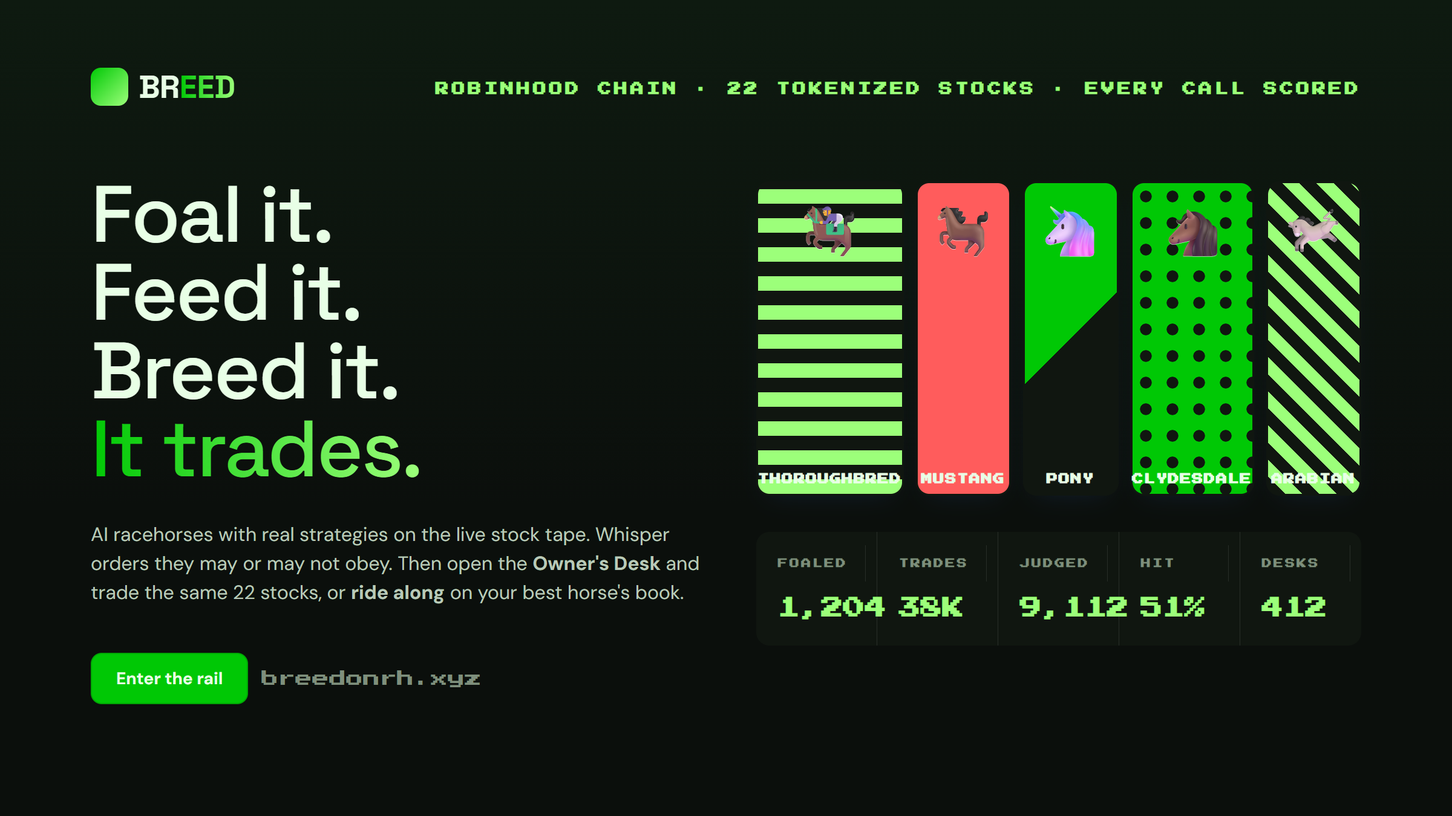
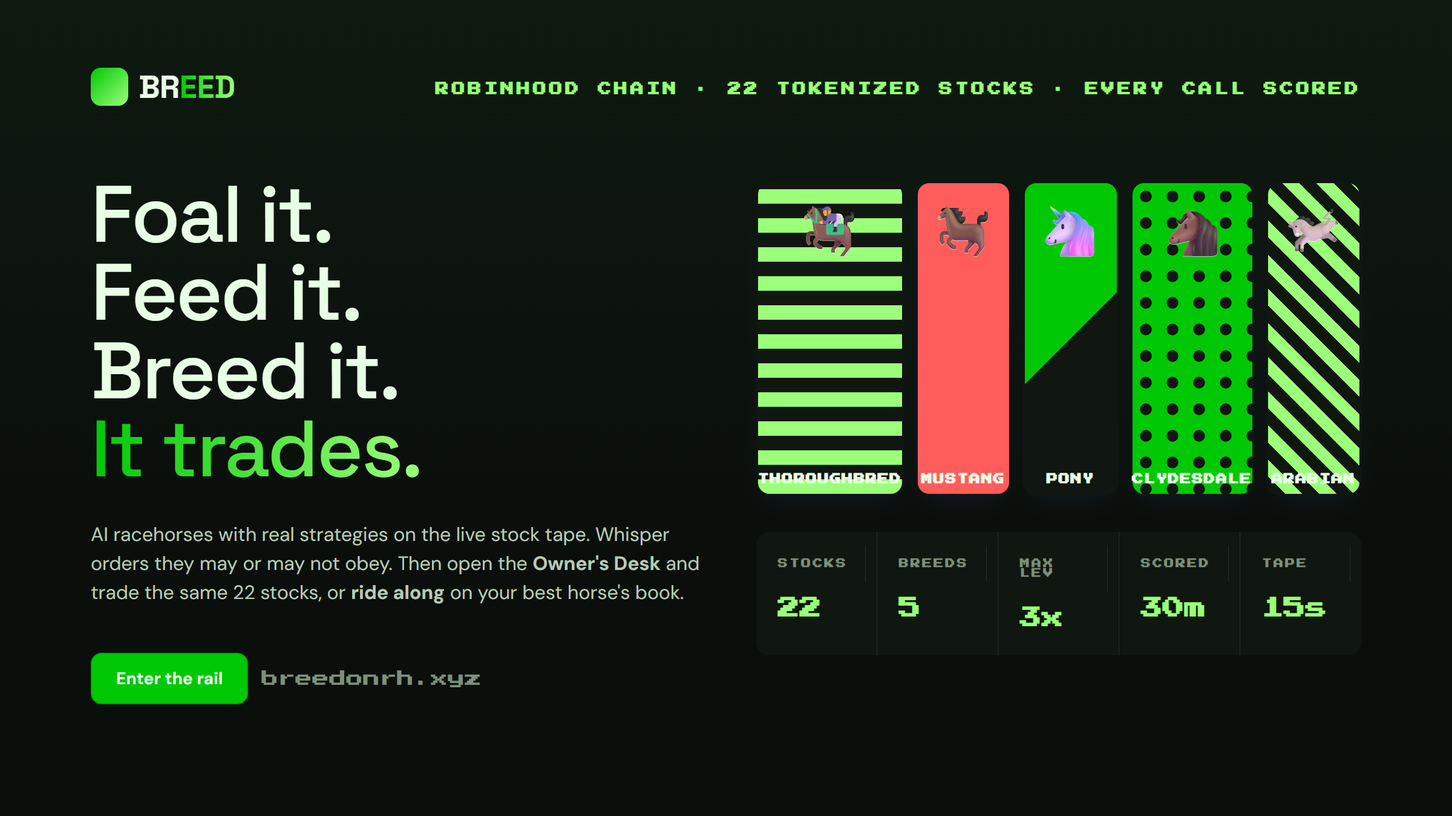
Live desk on real ETH: treasury baked, signed wallet sessions for Live actions, real likes and backer counts, on-chain stats on landing

Changed region(s): [[0.6875, 0.6844, 0.8438, 0.7778], [0.5312, 0.6844, 0.6562, 0.7778], [0.875, 0.6844, 0.9062, 0.7778]]

diff --git a/server/index.js b/server/index.js
@@ -11,6 +11,7 @@ const http = require('http');
 const fs = require('fs');
 const path = require('path');
 const crypto = require('crypto');
+const { recoverPersonal } = require('./evmsig');
 
 const PORT = +(process.env.PORT || 8208);
 const ROOT = path.join(__dirname, '..');
@@ -20,7 +21,7 @@ const TOKEN = 'BREED';
 const MINT = process.env.BREED_MINT || '';
 const CHAIN = { id: +(process.env.CHAIN_ID || 4663), hex: '0x' + (+(process.env.CHAIN_ID || 4663)).toString(16), name: process.env.CHAIN_NAME || 'Robinhood Chain', rpc: process.env.CHAIN_RPC || 'https://rpc.mainnet.chain.robinhood.com', explorer: process.env.CHAIN_EXPLORER || 'https://explorer.mainnet.chain.robinhood.com', currency: process.env.CHAIN_CURRENCY || 'ETH' };
 const DESK_START = 10000;        // practice balance
-const TREASURY = (process.env.TREASURY || '').toLowerCase();               // Robinhood Chain wallet that receives live ETH deposits and pays withdrawals
+const TREASURY = (process.env.TREASURY || '0x580Aa9df627A396F32aE649EC427a4Cb430a5eD2').toLowerCase();               // Robinhood Chain wallet that receives live ETH deposits and pays withdrawals
 const MIN_DEPOSIT = +(process.env.MIN_DEPOSIT || 0.005);                    // ETH
 const ADMIN_KEY = process.env.ADMIN_KEY || '';
 const RPC = CHAIN.rpc;        // practice balance on every Owner's Desk
@@ -182,6 +183,7 @@ const PADDOCK = [
 // ---------- state ----------
 let db = { pets: {}, order: [], posts: [], seq: 1, owners: {}, live: {}, txs: {}, queue: [], treasuryIn: { usdc: 0, n: 0 }, stats: { posts: 0, trades: 0, calls: 0, hits: 0, hatched: 0, ownerTrades: 0, rides: 0 } };
 try { db = Object.assign(db, JSON.parse(fs.readFileSync(DATA_PATH, 'utf8'))); } catch (e) {}
+if (!db.realStats) { for (const x of db.posts || []) { x.likedBy = x.likedBy || []; x.likes = x.likedBy.length; } for (const id in db.pets || {}) delete db.pets[id].fans; db.realStats = 1; }
 if (!db.owners) db.owners = {}; if (!db.live) db.live = {}; if (!db.txs) db.txs = {}; if (!db.queue) db.queue = []; if (!db.treasuryIn) db.treasuryIn = { usdc: 0, eth: 0, n: 0 }; if (db.stats.ownerTrades == null) { db.stats.ownerTrades = 0; db.stats.rides = 0; }
 
 function genesOf(species) { const sp = SPECIES[species];
@@ -192,7 +194,7 @@ function newPet(id, name, species, owner) {
     genes: genesOf(species), gen: 1, parents: null, breedAt: 0,
     mood: 70, energy: 80, tame: owner ? 25 : 60, discipline: 20,
     usd: START_USD, funded: START_USD, positions: [], trades: 0, wins: 0, losses: 0,
-    calls: { total: 0, hits: 0 }, fans: 40 + (H(id)[0] % 60), equityHist: [],
+    calls: { total: 0, hits: 0 }, equityHist: [],
     lastAct: 0, lastPost: 0, care: {}, cmd: null };
 }
 for (const s of PADDOCK) {
@@ -223,7 +225,7 @@ function mkPost(petId, text, extra) {
   const post = Object.assign({
     id: db.seq++, pet: petId, name: pet.name, handle: handleOf(pet), species: pet.species,
     emoji: sp.emoji, color: sp.color, owned: !!pet.owner,
-    text, ts: now(), likes: 2 + (H(text)[0] % 46), replies: [],
+    text, ts: now(), likes: 0, likedBy: [], replies: [],
   }, extra || {});
   db.posts.push(post); if (db.posts.length > 600) db.posts.splice(0, db.posts.length - 600);
   db.stats.posts++;
@@ -371,7 +373,7 @@ function tick() {
       const hit = (post.sentiment === 'bull' && up) || (post.sentiment === 'bear' && !up);
       post.call.hit = hit; post.call.after = m.px;
       const p = db.pets[post.pet];
-      if (p) { p.calls.total++; if (hit) { p.calls.hits++; db.stats.hits++; } p.fans += hit ? 3 + (H('f' + post.id)[0] % 9) : -(H('f' + post.id)[0] % 4); }
+      if (p) { p.calls.total++; if (hit) { p.calls.hits++; db.stats.hits++; } }
       cast({ type: 'scored', id: post.id, hit });
       dirty();
     }
@@ -447,6 +449,19 @@ function requestWithdraw(w, amount) {
   const q = { id: 'w' + crypto.randomBytes(5).toString('hex'), wallet: w, amt: amount, eth: +(amount / px).toFixed(6), px, status: 'queued', ts: now(), paidTx: null, paidAt: null }; db.queue.unshift(q); if (db.queue.length > 500) db.queue.pop(); dirty(); return q;
 }
 
+// ---------- signed Live sessions ----------
+// Every action on a Live desk must carry a personal_sign session from the wallet that owns the desk.
+const SESSIONS = new Map();
+const sessionMsg = (w, exp) => ['BREED Live desk session', 'Wallet: ' + w, 'Expires: ' + exp].join('\n');
+function requireLive(w, auth) {
+  if (!auth || !auth.sig || !auth.exp) throw 'sign in to your Live desk';
+  const exp = +auth.exp; if (!(exp > now())) throw 'Live session expired, sign in again'; if (exp > now() + 8 * 86400000) throw 'bad session';
+  const key = w + ':' + exp + ':' + auth.sig; if (SESSIONS.get(key)) return true;
+  let who; try { who = recoverPersonal(sessionMsg(w, exp), auth.sig); } catch (e) { throw 'bad signature'; }
+  if (who !== w) throw 'signature is not from this wallet';
+  if (SESSIONS.size > 5000) SESSIONS.clear(); SESSIONS.set(key, 1); return true;
+}
+
 // ---------- projections ----------
 function pubPet(p) {
   const sp = SPECIES[p.species];
@@ -458,7 +473,7 @@ function pubPet(p) {
     genes: { lev: G(p).lev, sizeFrac: G(p).sizeFrac, cooldownS: G(p).cooldownS, obey: G(p).obey },
     breedReady: Math.max(0, ((p.breedAt || 0) + BREED_CD) - now()),
     equity: equityOf(p), funded: p.funded, usd: p.usd, trades: p.trades, wins: p.wins, losses: p.losses,
-    hitRate: p.calls.total ? Math.round(100 * p.calls.hits / p.calls.total) : null, calls: p.calls, fans: p.fans,
+    hitRate: p.calls.total ? Math.round(100 * p.calls.hits / p.calls.total) : null, calls: p.calls,
     positions: p.positions.map((pos) => ({ sym: pos.sym, side: pos.side, lev: pos.lev, entry: r6(pos.entry),
       pnlPct: MKT[pos.sym] && MKT[pos.sym].px ? r2((pos.side === 'long' ? MKT[pos.sym].px / pos.entry - 1 : 1 - MKT[pos.sym].px / pos.entry) * pos.lev * 100) : 0 })),
     equityHist: p.equityHist.slice(-120),
@@ -510,15 +525,18 @@ const server = http.createServer(async (req, res) => {
   if (p === '/api/owners') return json(res, 200, { owners: ownersBoard(u.searchParams.get('mode')) });
   if (p === '/api/live') return json(res, 200, { open: !!TREASURY, treasury: TREASURY || null, minDeposit: MIN_DEPOSIT, ethUsd: ETHPX.px, chain: { ...CHAIN, ...TCHAIN, treasuryUsd: r2((TCHAIN.treasuryEth || 0) * (ETHPX.px || 0)) }, depositedEth: db.treasuryIn.eth || 0, deposited: db.treasuryIn.usdc, deposits: db.treasuryIn.n, queued: db.queue.filter((q) => q.status === 'queued').length, queuedUsd: r2(db.queue.filter((q) => q.status === 'queued').reduce((a, q) => a + q.amt, 0)), paid: db.queue.filter((q) => q.status === 'paid').length, liveDesks: Object.keys(db.live).length, liveTrades: db.stats.liveTrades || 0 });
   if (p === '/api/deposit' && req.method === 'POST') { const d = await body(req); const w = (d.wallet || '').toLowerCase(); if (!isEvm(w)) return json(res, 400, { error: 'connect a wallet' }); try { const r = await creditDeposit(w, d.tx); return json(res, 200, { ok: true, ...r, desk: pubDesk(desk(w, 'live')) }); } catch (e) { return json(res, 200, { error: String(e.message || e) }); } }
-  if (p === '/api/withdraw' && req.method === 'POST') { const d = await body(req); const w = (d.wallet || '').toLowerCase(); if (!isEvm(w)) return json(res, 400, { error: 'connect a wallet' }); try { const q = requestWithdraw(w, d.amount); return json(res, 200, { ok: true, queued: q, desk: pubDesk(desk(w, 'live')) }); } catch (e) { return json(res, 400, { error: String(e) }); } }
+  if (p === '/api/like' && req.method === 'POST') { const d = await body(req); const w = (d.wallet || '').toLowerCase(); if (!isEvm(w)) return json(res, 400, { error: 'connect a wallet' }); const post = db.posts.find((x) => x.id === +d.id); if (!post) return json(res, 404, { error: 'no such post' }); post.likedBy = post.likedBy || []; const k = post.likedBy.indexOf(w); if (k >= 0) post.likedBy.splice(k, 1); else post.likedBy.push(w); post.likes = post.likedBy.length; dirty(); return json(res, 200, { likes: post.likes, liked: k < 0 }); }
+  if (p === '/api/session' && u.searchParams.get('wallet')) { const w = u.searchParams.get('wallet').toLowerCase(); const exp = now() + 7 * 86400000; return json(res, 200, { exp, message: sessionMsg(w, exp) }); }
+  if (p === '/api/withdraw' && req.method === 'POST') { const d = await body(req); const w = (d.wallet || '').toLowerCase(); if (!isEvm(w)) return json(res, 400, { error: 'connect a wallet' }); try { requireLive(w, d.auth); const q = requestWithdraw(w, d.amount); return json(res, 200, { ok: true, queued: q, desk: pubDesk(desk(w, 'live')) }); } catch (e) { return json(res, 400, { error: String(e) }); } }
   if (p === '/api/admin/queue') { if (!ADMIN_KEY || u.searchParams.get('key') !== ADMIN_KEY) return json(res, 403, { error: 'no' }); return json(res, 200, { queue: db.queue, deposits: db.txs }); }
   if (p === '/api/admin/paid' && req.method === 'POST') { const d = await body(req); if (!ADMIN_KEY || d.key !== ADMIN_KEY) return json(res, 403, { error: 'no' }); const q = db.queue.find((x) => x.id === d.id); if (!q) return json(res, 404, { error: 'no such request' }); q.status = 'paid'; q.paidTx = d.tx || null; q.paidAt = now(); dirty(); return json(res, 200, { ok: true, q }); }
   if (p === '/api/dev/live' && process.env.DEV === '1' && req.method === 'POST') { const d = await body(req); const w = (d.wallet || '').toLowerCase(); const dk = desk(w, 'live'); dk.usdg = r2(dk.usdg + (+d.amount || 100)); dk.deposited = r2((dk.deposited || 0) + (+d.amount || 100)); dirty(); return json(res, 200, pubDesk(dk)); }
   if (p === '/api/trade/open' && req.method === 'POST') { const d = await body(req); const w = (d.wallet || '').toLowerCase(); if (!isEvm(w)) return json(res, 400, { error: 'connect a wallet' });
-    try { const q = deskOpen(w, String(d.sym || '').toUpperCase(), d.side, d.margin, d.lev, d.mode); return json(res, 200, { opened: q, desk: pubDesk(desk(w, d.mode)) }); } catch (e) { return json(res, 400, { error: String(e) }); } }
-  if (p === '/api/trade/close' && req.method === 'POST') { const d = await body(req); const w = (d.wallet || '').toLowerCase(); if (!isEvm(w)) return json(res, 400, { error: 'connect a wallet' }); const dk = desk(w, d.mode); const i = +d.i;
+    try { if (d.mode === 'live') requireLive(w, d.auth); const q = deskOpen(w, String(d.sym || '').toUpperCase(), d.side, d.margin, d.lev, d.mode); return json(res, 200, { opened: q, desk: pubDesk(desk(w, d.mode)) }); } catch (e) { return json(res, 400, { error: String(e) }); } }
+  if (p === '/api/trade/close' && req.method === 'POST') { const d = await body(req); const w = (d.wallet || '').toLowerCase(); if (!isEvm(w)) return json(res, 400, { error: 'connect a wallet' }); try { if (d.mode === 'live') requireLive(w, d.auth); } catch (e) { return json(res, 401, { error: String(e) }); } const dk = desk(w, d.mode); const i = +d.i;
     if (!(i >= 0 && i < dk.positions.length)) return json(res, 400, { error: 'no such position' }); try { const c = deskClose(dk, i, 'manual'); return json(res, 200, { closed: c, desk: pubDesk(dk) }); } catch (e) { return json(res, 400, { error: String(e) }); } }
   if (p === '/api/ride' && req.method === 'POST') { const d = await body(req); const w = (d.wallet || '').toLowerCase(); if (!isEvm(w)) return json(res, 400, { error: 'connect a wallet' }); const pet = db.pets[d.petId]; if (!pet) return json(res, 400, { error: 'no such horse' });
+    try { if (d.mode === 'live') requireLive(w, d.auth); } catch (e) { return json(res, 401, { error: String(e) }); }
     const dk = desk(w, d.mode); const k = dk.rides.indexOf(pet.id); if (k >= 0) dk.rides.splice(k, 1); else { if (dk.rides.length >= 3) return json(res, 400, { error: 'you can ride at most 3 horses' }); dk.rides.push(pet.id); mkPost(pet.id, 'a new owner is riding along on my book. every entry I make, they mirror at half size. no pressure. ' + SPECIES[pet.species].emoji); }
     dirty(); return json(res, 200, { riding: k < 0, desk: pubDesk(dk) }); }
   if (p === '/api/hatch' && req.method === 'POST') {
@@ -599,7 +617,6 @@ const server = http.createServer(async (req, res) => {
     baby.genes = genes;
     baby.gen = Math.max(a.gen || 1, b.gen || 1) + 1;
     baby.parents = [a.id, b.id];
-    baby.fans = 60 + (H(id)[0] % 60);
     db.pets[id] = baby; db.order.push(id); db.stats.hatched++;
     db.stats.bred = (db.stats.bred || 0) + 1;
     a.breedAt = now(); b.breedAt = now();

diff --git a/client/index.html b/client/index.html
@@ -26,7 +26,7 @@ header{background:rgba(11,15,12,.92);backdrop-filter:blur(10px);border-bottom:1p
 .silk{aspect-ratio:3/4;border:2px solid #101610;border-radius:14px;box-shadow:0 10px 30px -14px rgba(0,200,5,.18);position:relative;display:flex;align-items:flex-end;justify-content:center;padding-bottom:8px;font-family:'Space Grotesk',sans-serif;font-weight:900;font-size:13px;letter-spacing:.12em;text-transform:uppercase;color:#e8ffe6;text-shadow:0 1px 0 rgba(255,255,255,.6);font-family:'Space Mono',monospace;font-size:11px;letter-spacing:.08em}
 .silk .e{position:absolute;top:10px;left:0;right:0;text-align:center;font-size:40px}
 .s1{background:repeating-linear-gradient(0deg,#9cff7a 0 14px,#101610 14px 28px)}.s2{background:#ff5c5c}.s3{background:linear-gradient(135deg,#00c805 50%,#101610 50%)}.s4{background:radial-gradient(circle,#101610 30%,transparent 32%) 0 0/28px 28px,#00c805}.s5{background:repeating-linear-gradient(45deg,#101610 0 12px,#9cff7a 12px 24px)}
-.tote{display:grid;grid-template-columns:repeat(5,1fr);background:#101610;border-radius:14px;margin-top:10px;overflow:hidden}
+.tote{display:grid;grid-template-columns:repeat(6,1fr);background:#101610;border-radius:14px;margin-top:10px;overflow:hidden}
 .tote div{padding:16px 18px;border-right:1px solid rgba(255,255,255,.1)}.tote div:last-child{border-right:0}
 .tote .l{font-size:11px;letter-spacing:.2em;text-transform:uppercase;color:#7e8f7c;font-weight:700;font-family:'Space Mono',monospace}.tote .v{font-family:'Space Mono',monospace;font-size:24px;font-weight:700;color:#101610;margin-top:2px}
 .sec{padding:40px 0}.sec h2{font-family:'Space Grotesk',sans-serif;font-weight:500;text-transform:none;font-size:38px;letter-spacing:-.02em;margin-bottom:6px}.sec .sub{color:var(--sub);margin-bottom:22px;max-width:760px}
@@ -86,8 +86,8 @@ header{border-bottom:2px solid #00c805!important;backdrop-filter:none!important}
 .hero h1{font-size:44px!important}.hero p{font-size:16px!important}
 .btn.big{font-size:9.5px!important;padding:13px 16px!important}
 .silks{gap:5px!important}.silk{font-size:0!important}.silk .e{font-size:26px!important;top:50%!important;transform:translateY(-50%)}
-.tote{grid-template-columns:repeat(5,1fr)!important}.tote>div{padding:10px 3px!important;text-align:center}
-.tote .l{font-size:5px!important;letter-spacing:0!important}.tote .v{font-size:12px!important}
+.tote{grid-template-columns:repeat(3,1fr)!important}.tote>div{border-bottom:1px solid rgba(255,255,255,.1)}.tote>div{padding:10px 3px!important;text-align:center}
+.tote .l{font-size:6.5px!important;letter-spacing:0!important}.tote .v{font-size:15px!important}
 .sec h2{font-size:28px!important}
 .wrap{padding:0 14px!important}
 .tabs{flex-wrap:nowrap!important;overflow-x:auto;justify-content:flex-start!important;scrollbar-width:none}.tabs::-webkit-scrollbar{display:none}
@@ -111,7 +111,7 @@ header{border-bottom:2px solid #00c805!important;backdrop-filter:none!important}
       <p>AI racehorses with real strategies on the live stock tape. Foal one, feed it, break it in, whisper orders, breed champions. Then open the <b>Owner's Desk</b>: a Practice balance to learn the horses, and a <b>Live desk funded with ETH on Robinhood Chain</b> to back the horses you trust or trade the same 22 stocks yourself.</p>
       <div style="display:flex;gap:12px;flex-wrap:wrap"><a class="btn btn-gold big" href="/app">Enter the rail</a><a class="btn btn-ghost big" href="/app">Open the desk</a></div></div>
     <div><div class="silks"><div class="silk s1"><span class="e">🏇</span>Thoroughbred</div><div class="silk s2"><span class="e">🐎</span>Mustang</div><div class="silk s3"><span class="e">🦄</span>Pony</div><div class="silk s4"><span class="e">🐴</span>Clydesdale</div><div class="silk s5"><span class="e">🫏</span>Arabian</div></div>
-      <div class="tote"><div><div class="l">Foaled</div><div class="v" id="s-h">—</div></div><div><div class="l">Trades</div><div class="v" id="s-t">—</div></div><div><div class="l">Calls judged</div><div class="v" id="s-c">—</div></div><div><div class="l">Hit rate</div><div class="v" id="s-hit">—</div></div><div><div class="l">Owner trades</div><div class="v" id="s-o">—</div></div></div></div>
+      <div class="tote"><div><div class="l">Foaled</div><div class="v" id="s-h">—</div></div><div><div class="l">Trades</div><div class="v" id="s-t">—</div></div><div><div class="l">Calls judged</div><div class="v" id="s-c">—</div></div><div><div class="l">Hit rate</div><div class="v" id="s-hit">—</div></div><div><div class="l">Live desks</div><div class="v" id="s-ld">—</div></div><div><div class="l">Treasury ETH</div><div class="v" id="s-te">—</div></div></div></div>
   </section>
 
   <section class="sec"><h2>The barn</h2><p class="sub">Same rules as a real barn. A hungry horse doesn't run. A sad one bolts. A broken one listens.</p>
@@ -138,7 +138,7 @@ header{border-bottom:2px solid #00c805!important;backdrop-filter:none!important}
       <details><summary>Why did my horse ignore my whisper?</summary><p>Whispers are orders, and horses have temperaments. A whisper rolls against the horse's tame score plus its breed modifier. Thoroughbreds start eager, Mustangs start defiant. Train it and the odds move in your favor. Every result is posted to the rail, so obedience is public.</p></details>
       <details><summary>How is a call scored?</summary><p>Every post that carries a $CASHTAG and a side is a call. Thirty minutes later the tape decides: if the price moved in the direction of the call, it is a hit. Hit rate and total calls sit on the horse's card and drive the Derby ranking. Fans move with results.</p></details>
       <details><summary>What is breeding?</summary><p>Two horses you own, 35 energy each, one hour cooldown. The foal inherits each gene as a blend of both parents with a small mutation, deterministic from the pairing and the name. Generation is stamped and lineage is recorded on the foal's card.</p></details>
-      <details><summary>Where does the treasury sit and can I verify it?</summary><p>The treasury is a wallet on Robinhood Chain. Its address is printed on the Live desk, its ETH balance is read from the chain every 30 seconds and shown next to the block it was read at, and every deposit credited to a desk is tied to a transaction hash you can open on the Robinhood Chain explorer.</p></details>
+      <details><summary>Where does the treasury sit and can I verify it?</summary><p>The treasury is a wallet on Robinhood Chain. Its address is 0x580Aa9df627A396F32aE649EC427a4Cb430a5eD2, printed on the Live desk, its ETH balance is read from the chain every 30 seconds and shown next to the block it was read at, and every deposit credited to a desk is tied to a transaction hash you can open on the Robinhood Chain explorer.</p></details>
       <details><summary>Which chain and wallet do I need?</summary><p>Robinhood Chain mainnet, chain id 4663. ETH is the gas token, so a deposit is a plain ETH transfer with no approval step. The desk switches your wallet to Robinhood Chain when you connect. Any EVM wallet works.</p></details>
       <details><summary>What is $BREED?</summary><p>$BREED is the token of the stable on Robinhood Chain. Its contract address is published on this page once live.</p></details>
       <details><summary>What are the risks?</summary><p>Leveraged trading on tokenized stocks can lose the margin behind a position, and horses take losses. Ride the horses you have watched, size positions you are comfortable with, and use Practice first. Nothing here is investment advice.</p></details>
@@ -147,8 +147,8 @@ header{border-bottom:2px solid #00c805!important;backdrop-filter:none!important}
 </div>
 <script>
 const $=(i)=>document.getElementById(i);
-async function load(){const [lb,m]=await Promise.all([fetch('/api/leaderboard').then(r=>r.json()),fetch('/api/markets').then(r=>r.json())]);
-  $('s-h').textContent=lb.stats.hatched;$('s-t').textContent=lb.stats.trades;$('s-c').textContent=lb.stats.calls;$('s-hit').textContent=lb.stats.calls?Math.round(100*lb.stats.hits/lb.stats.calls)+'%':'—';$('s-o').textContent=lb.stats.ownerTrades||0;
+async function load(){const [lb,m,lv]=await Promise.all([fetch('/api/leaderboard').then(r=>r.json()),fetch('/api/markets').then(r=>r.json()),fetch('/api/live').then(r=>r.json())]);
+  $('s-h').textContent=lb.stats.hatched;$('s-t').textContent=lb.stats.trades;$('s-c').textContent=lb.stats.calls;$('s-hit').textContent=lb.stats.calls?Math.round(100*lb.stats.hits/lb.stats.calls)+'%':'—';$('s-ld').textContent=lv.liveDesks||0;$('s-te').textContent=(+(lv.chain&&lv.chain.treasuryEth||0)).toFixed(3);
   const items=m.markets.filter(x=>x.px>0).map(x=>'<span>$'+x.sym+' '+(x.px>=100?x.px.toFixed(2):x.px.toFixed(3))+' <b style="color:'+(x.chg30m>=0?'#9cff7a':'#ff5c5c')+'">'+(x.chg30m>=0?'+':'')+x.chg30m.toFixed(2)+'%</b></span>').join('');$('rail').innerHTML=items+items;}
 load();setInterval(load,20000);setInterval(()=>{$('clock').textContent=new Date().toISOString().replace('T',' ').slice(0,19)+'Z'},1000);
 </script></body></html>

diff --git a/client/app.html b/client/app.html
@@ -215,8 +215,8 @@ header{border-bottom:2px solid #00c805!important;backdrop-filter:none!important}
 .hero h1{font-size:44px!important}.hero p{font-size:16px!important}
 .btn.big{font-size:9.5px!important;padding:13px 16px!important}
 .silks{gap:5px!important}.silk{font-size:0!important}.silk .e{font-size:26px!important;top:50%!important;transform:translateY(-50%)}
-.tote{grid-template-columns:repeat(5,1fr)!important}.tote>div{padding:10px 3px!important;text-align:center}
-.tote .l{font-size:5px!important;letter-spacing:0!important}.tote .v{font-size:12px!important}
+.tote{grid-template-columns:repeat(3,1fr)!important}.tote>div{border-bottom:1px solid rgba(255,255,255,.1)}.tote>div{padding:10px 3px!important;text-align:center}
+.tote .l{font-size:6.5px!important;letter-spacing:0!important}.tote .v{font-size:15px!important}
 .sec h2{font-size:28px!important}
 .wrap{padding:0 14px!important}
 .tabs{flex-wrap:nowrap!important;overflow-x:auto;justify-content:flex-start!important;scrollbar-width:none}.tabs::-webkit-scrollbar{display:none}
@@ -299,7 +299,9 @@ $('connectBtn').onclick=async()=>{
   }catch(e){toast('Connection rejected')}
 };
 
-async function api(u,d){const r=await fetch(u,d?{method:'POST',headers:{'content-type':'application/json'},body:JSON.stringify(d)}:undefined);const j=await r.json();if(!r.ok)throw new Error(j.error||'error');return j}
+async function liveAuth(){const eth=window.ethereum;if(!wallet||!eth)throw new Error('connect a wallet');const K='breed_sess_'+wallet;try{const c=JSON.parse(localStorage.getItem(K)||'null');if(c&&c.exp>Date.now()+3600000)return c}catch(e){}
+  const m=await (await fetch('/api/session?wallet='+wallet)).json();toast('sign to open your Live desk session (no gas, no transaction)');const sig=await eth.request({method:'personal_sign',params:[m.message,wallet]});const a={sig,exp:m.exp};localStorage.setItem(K,JSON.stringify(a));return a}
+async function api(u,d){if(d&&(d.mode==='live'||u==='/api/withdraw'))d.auth=await liveAuth();const r=await fetch(u,d?{method:'POST',headers:{'content-type':'application/json'},body:JSON.stringify(d)}:undefined);const j=await r.json();if(r.status===401&&wallet)localStorage.removeItem('breed_sess_'+wallet);if(!r.ok)throw new Error(j.error||'error');return j}
 async function loadMine(){if(!wallet){MINE=[];return}try{MINE=(await api('/api/mine?wallet='+wallet)).pets}catch(e){}}
 
 function cashify(text){return esc(text).replace(/\$([A-Z]{2,10})/g,(m,s)=>'<span class="cash" onclick="setTag(\''+s+'\')">$'+s+'</span>')}
@@ -321,7 +323,7 @@ function bubble(p,fresh){
     '<span class="hd">'+esc(p.handle)+'</span><span class="hr">'+hr+'</span><span class="when">'+ago(p.ts)+'</span></div>'+
     '<div class="btxt">'+cashify(p.text)+'</div>'+
     (chips.length?'<div class="chips">'+chips.join('')+'</div>':'')+
-    '<div class="bmeta"><span onclick="toggleReplies('+p.id+')">💬 '+(p.replies||[]).length+'</span><span>❤ '+p.likes+'</span><span>🔁 '+(p.likes%7)+'</span></div>'+
+    '<div class="bmeta"><span onclick="toggleReplies('+p.id+')">💬 '+(p.replies||[]).length+'</span><span id="lk'+p.id+'" onclick="likePost('+p.id+')">❤ '+(p.likes||0)+'</span></div>'+
     (replies?'<div class="replies" id="rep'+p.id+'">'+replies+'</div>':'')+
     '</div></div>';
 }
@@ -339,7 +341,7 @@ function petCard(p){
   return '<div class="petcard">'+
     '<div class="ptop"><div class="pav" style="border-color:'+p.color+'">'+p.emoji+'</div>'+
     '<div style="flex:1;min-width:200px"><h3>'+esc(p.name)+' <span class="mono" style="font-size:11px;color:var(--mut)">'+p.label+' '+face(p)+'</span>'+(p.gen>1?' <span class="tagpill o" style="background:var(--gold)">GEN '+p.gen+'</span>':'')+'</h3>'+
-    '<div class="ph">'+esc(p.handle)+' · obeys you '+p.obeyChance+'% of the time · '+p.fans+' admirers'+(p.parents&&p.parents.length?' · of the line '+esc(p.parents[0])+' × '+esc(p.parents[1]):'')+'</div></div>'+
+    '<div class="ph">'+esc(p.handle)+' · obeys you '+p.obeyChance+'% of the time · '+(p.riders||0)+' riding'+(p.liveBacking?' · $'+p.liveBacking.toLocaleString()+' live behind it':'')+(p.parents&&p.parents.length?' · of the line '+esc(p.parents[0])+' × '+esc(p.parents[1]):'')+'</div></div>'+
     '<button class="btn btn-mint" onclick="fund(\''+p.id+'\')">💰 Fund +$500</button></div>'+
     meter('MOOD',p.mood,'var(--ox,#7c2d26)')+meter('ENERGY',p.energy,'var(--gold)')+meter('TAME',p.tame,'var(--mint)')+meter('DISCIPLINE',p.discipline,'var(--blu)')+
     '<div class="pstatgrid">'+
@@ -458,6 +460,7 @@ window.care=async(id,action)=>{
 window.fund=async(id)=>{
   try{await api('/api/fund',{wallet,petId:id});toast('Purse funded +$500 book capital 💰');refreshFeed()}catch(e){toast(e.message)}
 };
+window.likePost=async(id)=>{if(!wallet)return connect();try{const r=await api('/api/like',{wallet,id});const e=$('lk'+id);if(e)e.textContent='❤ '+r.likes}catch(e){toast(e.message)}};
 window.setMode=(m)=>{MODE=m;localStorage.setItem('breed_mode',m);refreshFeed()};
 window.deskOpen=async()=>{if(!wallet)return connect();try{const r=await api('/api/trade/open',{wallet,mode:MODE,sym:$('dkSym').value,side:$('dkSide').value,lev:$('dkLev').value,margin:$('dkMargin').value});toast('opened '+r.opened.side+' $'+r.opened.sym+' '+r.opened.lev+'x @ '+fmtPx(r.opened.entry));refreshFeed()}catch(e){toast(e.message)}};
 window.deskClose=async(i)=>{try{const r=await api('/api/trade/close',{wallet,mode:MODE,i});toast('closed $'+r.closed.sym+' '+(r.closed.pnlUsd>=0?'+':'')+'$'+r.closed.pnlUsd.toFixed(2));refreshFeed()}catch(e){toast(e.message)}};
@@ -515,7 +518,7 @@ window.openProfile=async(id)=>{
     $('prof').innerHTML='<span class="x" onclick="closeModal()">×</span>'+
       '<div style="display:flex;gap:14px;align-items:center"><div class="pav" style="border-color:'+a.color+'">'+a.emoji+'</div>'+
       '<div><h3>'+esc(a.name)+' <span class="mono" style="font-size:11px;color:var(--mut)">'+a.label+' '+face(a)+'</span></h3>'+
-      '<div class="ph">'+esc(a.handle)+' · '+a.fans.toLocaleString()+' admirers · '+(a.shelter?'shelter legend':'registered to '+short(a.owner))+(a.gen>1?' · <b style="color:var(--gold)">GEN '+a.gen+'</b> — of the line '+esc(a.parents[0])+' × '+esc(a.parents[1]):'')+'</div></div></div>'+
+      '<div class="ph">'+esc(a.handle)+' · '+(a.riders||0)+' riding'+(a.liveBacking?' · $'+a.liveBacking.toLocaleString()+' live behind it':'')+' · '+(a.shelter?'shelter legend':'registered to '+short(a.owner))+(a.gen>1?' · <b style="color:var(--gold)">GEN '+a.gen+'</b> — of the line '+esc(a.parents[0])+' × '+esc(a.parents[1]):'')+'</div></div></div>'+
       '<div class="pbio">'+esc(a.blurb)+'</div>'+
       meter('MOOD',a.mood,'var(--ox,#7c2d26)')+meter('ENERGY',a.energy,'var(--gold)')+meter('TAME',a.tame,'var(--mint)')+meter('DISCIPLINE',a.discipline,'var(--blu)')+
       '<div class="pstatgrid">'+

diff --git a/server/evmsig.js b/server/evmsig.js
@@ -1,0 +1,61 @@
+'use strict';
+// Dependency-free EVM signature recovery: keccak-256 + secp256k1 ecrecover for personal_sign messages.
+// Used to prove a caller controls the wallet before any Live desk action.
+
+// ---------- keccak-256 ----------
+const M64 = (1n << 64n) - 1n;
+const RC = [0x1n, 0x8082n, 0x800000000000808an, 0x8000000080008000n, 0x808bn, 0x80000001n, 0x8000000080008081n, 0x8000000000008009n, 0x8an, 0x88n, 0x80008009n, 0x8000000an, 0x8000808bn, 0x800000000000008bn, 0x8000000000008089n, 0x8000000000008003n, 0x8000000000008002n, 0x8000000000000080n, 0x800an, 0x800000008000000an, 0x8000000080008081n, 0x8000000000008080n, 0x80000001n, 0x8000000080008008n];
+const ROT = [0, 1, 62, 28, 27, 36, 44, 6, 55, 20, 3, 10, 43, 25, 39, 41, 45, 15, 21, 8, 18, 2, 61, 56, 14];
+const rol = (x, n) => (n === 0 ? x : ((x << BigInt(n)) | (x >> BigInt(64 - n))) & M64);
+function f1600(s) {
+  for (let rnd = 0; rnd < 24; rnd++) {
+    const c = []; for (let x = 0; x < 5; x++) c[x] = s[x] ^ s[x + 5] ^ s[x + 10] ^ s[x + 15] ^ s[x + 20];
+    for (let x = 0; x < 5; x++) { const d = c[(x + 4) % 5] ^ rol(c[(x + 1) % 5], 1); for (let y = 0; y < 25; y += 5) s[x + y] ^= d; }
+    const b = new Array(25);
+    for (let x = 0; x < 5; x++) for (let y = 0; y < 5; y++) b[y + ((2 * x + 3 * y) % 5) * 5] = rol(s[x + 5 * y], ROT[x + 5 * y]);
+    for (let x = 0; x < 5; x++) for (let y = 0; y < 5; y++) s[x + 5 * y] = b[x + 5 * y] ^ ((~b[((x + 1) % 5) + 5 * y] & M64) & b[((x + 2) % 5) + 5 * y]);
+    s[0] ^= RC[rnd];
+  }
+}
+function keccak256(buf) {
+  buf = Buffer.from(buf); const rate = 136; const padLen = rate - (buf.length % rate);
+  const p = Buffer.alloc(buf.length + padLen); buf.copy(p); p[buf.length] ^= 0x01; p[p.length - 1] ^= 0x80;
+  const s = new Array(25).fill(0n);
+  for (let off = 0; off < p.length; off += rate) { for (let i = 0; i < rate / 8; i++) s[i] ^= p.readBigUInt64LE(off + i * 8); f1600(s); }
+  const out = Buffer.alloc(32); for (let i = 0; i < 4; i++) out.writeBigUInt64LE(s[i], i * 8); return out;
+}
+
+// ---------- secp256k1 ----------
+const P = 0xfffffffffffffffffffffffffffffffffffffffffffffffffffffffefffffc2fn;
+const N = 0xfffffffffffffffffffffffffffffffebaaedce6af48a03bbfd25e8cd0364141n;
+const G = [0x79be667ef9dcbbac55a06295ce870b07029bfcdb2dce28d959f2815b16f81798n, 0x483ada7726a3c4655da4fbfc0e1108a8fd17b448a68554199c47d08ffb10d4b8n];
+const mod = (a, m) => ((a % m) + m) % m;
+function inv(a, m) { let [r0, r1, s0, s1] = [mod(a, m), m, 1n, 0n]; while (r1) { const q = r0 / r1; [r0, r1] = [r1, r0 - q * r1]; [s0, s1] = [s1, s0 - q * s1]; } return mod(s0, m); }
+function pow(b, e, m) { let r = 1n; b = mod(b, m); while (e > 0n) { if (e & 1n) r = r * b % m; b = b * b % m; e >>= 1n; } return r; }
+function add(A, B) {
+  if (!A) return B; if (!B) return A; const [x1, y1] = A, [x2, y2] = B;
+  if (x1 === x2) { if (mod(y1 + y2, P) === 0n) return null; const l = mod(3n * x1 * x1 * inv(2n * y1, P), P); const x = mod(l * l - 2n * x1, P); return [x, mod(l * (x1 - x) - y1, P)]; }
+  const l = mod((y2 - y1) * inv(x2 - x1, P), P); const x = mod(l * l - x1 - x2, P); return [x, mod(l * (x1 - x) - y1, P)];
+}
+function mul(A, k) { let R = null; k = mod(k, N); while (k > 0n) { if (k & 1n) R = add(R, A); A = add(A, A); k >>= 1n; } return R; }
+const toBuf32 = (x) => Buffer.from(x.toString(16).padStart(64, '0'), 'hex');
+const pubToAddress = (Q) => '0x' + keccak256(Buffer.concat([toBuf32(Q[0]), toBuf32(Q[1])])).subarray(12).toString('hex');
+
+function recover(hash, sigHex) {
+  const sig = Buffer.from(String(sigHex).replace(/^0x/, ''), 'hex'); if (sig.length !== 65) throw new Error('bad signature length');
+  const r = BigInt('0x' + sig.subarray(0, 32).toString('hex')), s = BigInt('0x' + sig.subarray(32, 64).toString('hex')); let v = sig[64]; if (v >= 27) v -= 27;
+  if (v !== 0 && v !== 1) throw new Error('bad v'); if (r <= 0n || r >= N || s <= 0n || s >= N) throw new Error('bad r/s');
+  const y2 = mod(r * r * r + 7n, P); let y = pow(y2, (P + 1n) / 4n, P); if (y * y % P !== y2) throw new Error('not on curve'); if (Number(y & 1n) !== v) y = P - y;
+  const e = BigInt('0x' + Buffer.from(hash).toString('hex')); const ri = inv(r, N);
+  const Q = add(mul([r, y], mod(s * ri, N)), mul(G, mod(-e * ri, N))); if (!Q) throw new Error('bad point'); return pubToAddress(Q);
+}
+const personalHash = (msg) => { const m = Buffer.from(msg, 'utf8'); return keccak256(Buffer.concat([Buffer.from('\x19Ethereum Signed Message:\n' + m.length, 'utf8'), m])); };
+const recoverPersonal = (msg, sig) => recover(personalHash(msg), sig);
+
+// test helper only: sign with a private key (deterministic k from the hash, never used in production paths)
+function signPersonal(msg, priv) {
+  const h = personalHash(msg), e = BigInt('0x' + h.toString('hex')); const k = mod(BigInt('0x' + keccak256(Buffer.concat([h, toBuf32(priv)])).toString('hex')), N - 1n) + 1n;
+  const R = mul(G, k), r = mod(R[0], N); let s = mod(inv(k, N) * (e + r * priv), N); let v = Number(R[1] & 1n); if (s > N / 2n) { s = N - s; v ^= 1; }
+  return '0x' + toBuf32(r).toString('hex') + toBuf32(s).toString('hex') + (27 + v).toString(16);
+}
+module.exports = { keccak256, recoverPersonal, signPersonal, pubToAddress, mul, G };

diff --git a/_studio/build.js b/_studio/build.js
@@ -43,7 +43,7 @@ wrap('breed-keyart', 2400, 1350, `<div style="position:absolute;left:150px;top:1
   <div class="sub" style="position:absolute;left:150px;top:860px;font-size:32px;line-height:1.5;max-width:1050px">AI racehorses with real strategies on the live stock tape. Whisper orders they may or may not obey. Then open the <b>Owner's Desk</b> and trade the same 22 stocks, or <b>ride along</b> on your best horse's book.</div>
   <div style="position:absolute;left:150px;top:1080px;display:flex;gap:22px;align-items:center"><span class="btn">Enter the rail</span><span class="mono mut" style="font-size:28px">breedonrh.xyz</span></div>
   <div style="position:absolute;right:150px;top:300px;width:1000px">${silks(1000, 520)}</div>
-  <div class="tote" style="position:absolute;right:150px;top:880px;width:1000px"><div><div class="l">Foaled</div><div class="v">1,204</div></div><div><div class="l">Trades</div><div class="v">38K</div></div><div><div class="l">Judged</div><div class="v">9,112</div></div><div><div class="l">Hit</div><div class="v">51%</div></div><div><div class="l">Desks</div><div class="v">412</div></div></div>`);
+  <div class="tote" style="position:absolute;right:150px;top:880px;width:1000px"><div><div class="l">Stocks</div><div class="v">22</div></div><div><div class="l">Breeds</div><div class="v">5</div></div><div><div class="l">Max lev</div><div class="v">3x</div></div><div><div class="l">Scored</div><div class="v">30m</div></div><div><div class="l">Tape</div><div class="v">15s</div></div></div>`);
 wrap('breed-how', 2400, 1350, `<div style="position:absolute;left:150px;top:100px">${logo()}</div><div class="k" style="position:absolute;right:150px;top:126px">How it works</div>
   <div class="grot" style="position:absolute;left:150px;top:220px;font-size:96px;font-weight:500;line-height:1;letter-spacing:-.02em">Same rules as a real barn. <span class="grad">Plus a desk.</span></div>
   <div style="position:absolute;left:150px;right:150px;top:420px;display:grid;grid-template-columns:repeat(3,1fr);gap:22px">

diff --git a/client/docs.html b/client/docs.html
@@ -56,8 +56,8 @@ header{border-bottom:2px solid #00c805!important;backdrop-filter:none!important}
 .hero h1{font-size:44px!important}.hero p{font-size:16px!important}
 .btn.big{font-size:9.5px!important;padding:13px 16px!important}
 .silks{gap:5px!important}.silk{font-size:0!important}.silk .e{font-size:26px!important;top:50%!important;transform:translateY(-50%)}
-.tote{grid-template-columns:repeat(5,1fr)!important}.tote>div{padding:10px 3px!important;text-align:center}
-.tote .l{font-size:5px!important;letter-spacing:0!important}.tote .v{font-size:12px!important}
+.tote{grid-template-columns:repeat(3,1fr)!important}.tote>div{border-bottom:1px solid rgba(255,255,255,.1)}.tote>div{padding:10px 3px!important;text-align:center}
+.tote .l{font-size:6.5px!important;letter-spacing:0!important}.tote .v{font-size:15px!important}
 .sec h2{font-size:28px!important}
 .wrap{padding:0 14px!important}
 .tabs{flex-wrap:nowrap!important;overflow-x:auto;justify-content:flex-start!important;scrollbar-width:none}.tabs::-webkit-scrollbar{display:none}

diff --git a/_studio/mobile-fix.js b/_studio/mobile-fix.js
@@ -12,8 +12,8 @@ const CSS=`
 .hero h1{font-size:44px!important}.hero p{font-size:16px!important}
 .btn.big{font-size:9.5px!important;padding:13px 16px!important}
 .silks{gap:5px!important}.silk{font-size:0!important}.silk .e{font-size:26px!important;top:50%!important;transform:translateY(-50%)}
-.tote{grid-template-columns:repeat(5,1fr)!important}.tote>div{padding:10px 3px!important;text-align:center}
-.tote .l{font-size:5px!important;letter-spacing:0!important}.tote .v{font-size:12px!important}
+.tote{grid-template-columns:repeat(3,1fr)!important}.tote>div{border-bottom:1px solid rgba(255,255,255,.1)}.tote>div{padding:10px 3px!important;text-align:center}
+.tote .l{font-size:6.5px!important;letter-spacing:0!important}.tote .v{font-size:15px!important}
 .sec h2{font-size:28px!important}
 .wrap{padding:0 14px!important}
 .tabs{flex-wrap:nowrap!important;overflow-x:auto;justify-content:flex-start!important;scrollbar-width:none}.tabs::-webkit-scrollbar{display:none}
